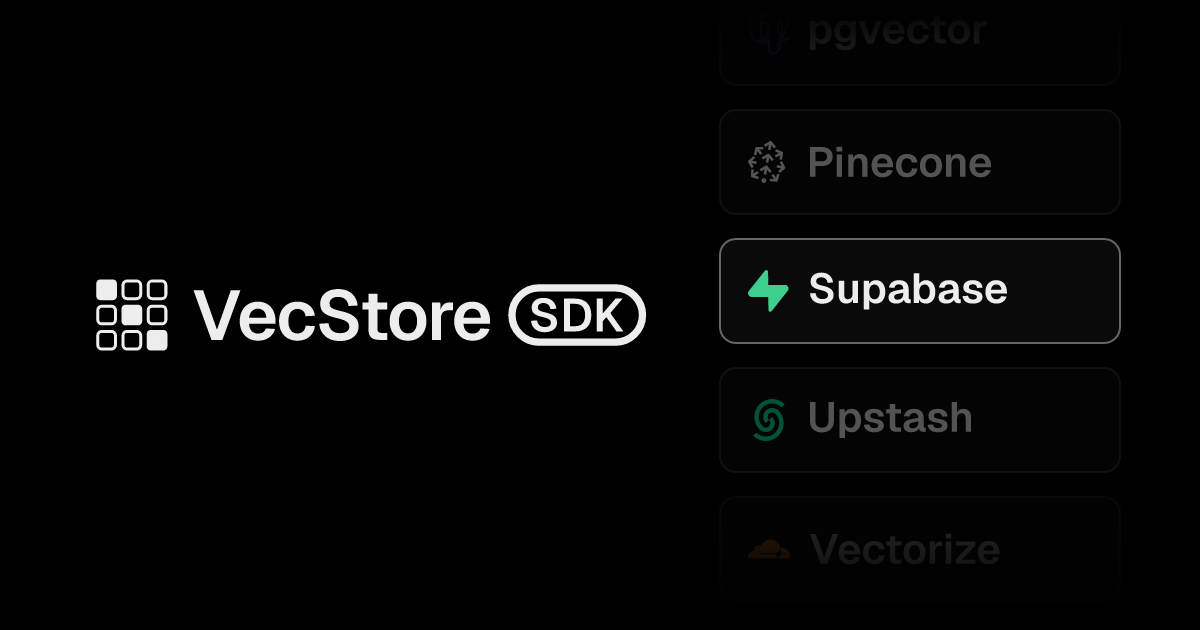
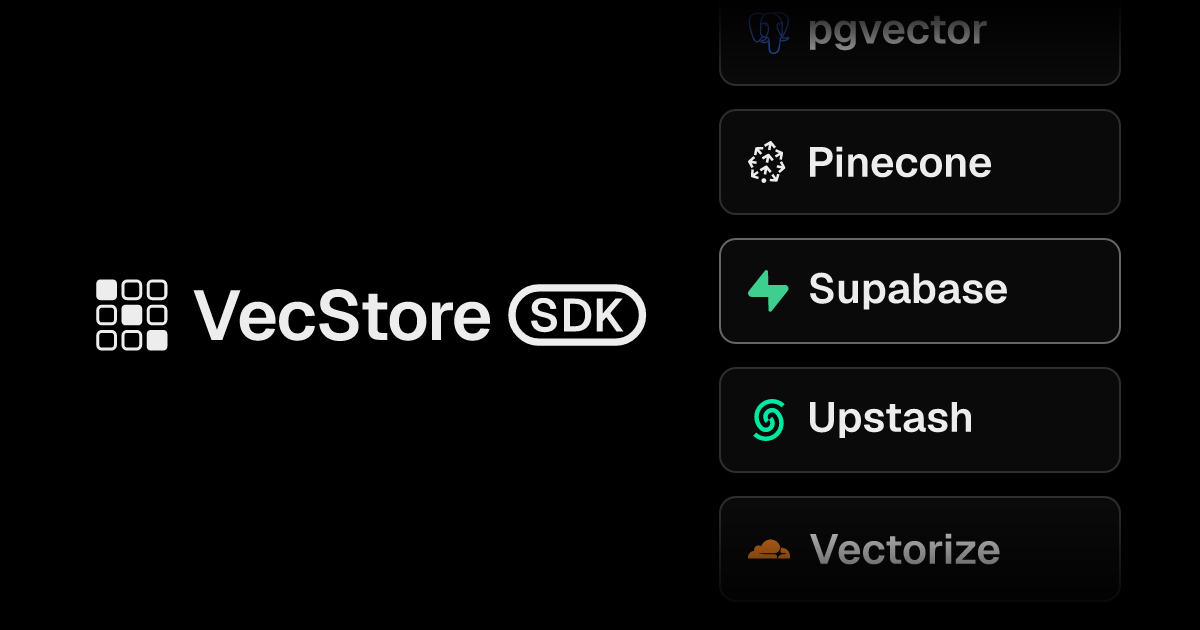
chore(assets): let the fade alone dim the provider cards
A provider background dimmed its rows by distance from the active one,
0.35 either side and 0.18 beyond that, and then the column mask dimmed
them again. The two stacked: the rows at the ends came out near black
while the pair next to the centre sat at a third of the opacity the fade
had already given them, so four of the five cards read as ghosts and the
column lost the shape it has on the default background.

Position and border carry the highlight on their own. The active row is
rotated to the middle slot, which is where the mask is fully opaque, and
it keeps the brighter #666 border the others do not have.

diff --git a/scripts/render-web-icons.ts b/scripts/render-web-icons.ts
@@ -13,8 +13,6 @@ const INK = "#ededed";
 const CARD_FILL = "#0a0a0a";
 const CARD_STROKE = "#2e2e2e";
 const CARD_STROKE_ACTIVE = "#666666";
-const CARD_DIM_NEAR = 0.35;
-const CARD_DIM_FAR = 0.18;
 const CARD_STROKE_WIDTH = 2;
 const CARD_WIDTH = 400;
 const CARD_HEIGHT = 104;
@@ -165,31 +163,15 @@ const providerBody = (row: ProviderRow, labelFont: Font): string => {
   return `<g transform="translate(${CARD_ICON_INSET} ${format(CARD_ICON_Y)})">${providerIcon(row.file, CARD_ICON, row.tint)}</g><g transform="translate(${format(CARD_LABEL_X - box.x1)} ${format(textY)})"><path d="${cubicPathData(label, PATH_PRECISION)}" fill="${INK}"/></g>`;
 };
 
-interface CardStyle {
-  readonly active: boolean;
-  readonly opacity: number;
-}
-
 const card = (
   row: ProviderRow,
   y: number,
   labelFont: Font,
-  style: CardStyle
+  active: boolean
 ): string => {
   const body = providerBody(row, labelFont);
-  const stroke = style.active ? CARD_STROKE_ACTIVE : CARD_STROKE;
-  return `<g transform="translate(0 ${format(y)})" opacity="${format(style.opacity)}"><rect width="${CARD_WIDTH}" height="${CARD_HEIGHT}" rx="${CARD_RADIUS}" fill="${CARD_FILL}" stroke="${stroke}" stroke-width="${CARD_STROKE_WIDTH}"/>${body}</g>`;
-};
-
-const cardStyle = (distance: number): CardStyle => {
-  if (distance === 0) {
-    return { active: true, opacity: 1 };
-  }
-
-  return {
-    active: false,
-    opacity: distance === 1 ? CARD_DIM_NEAR : CARD_DIM_FAR,
-  };
+  const stroke = active ? CARD_STROKE_ACTIVE : CARD_STROKE;
+  return `<g transform="translate(0 ${format(y)})"><rect width="${CARD_WIDTH}" height="${CARD_HEIGHT}" rx="${CARD_RADIUS}" fill="${CARD_FILL}" stroke="${stroke}" stroke-width="${CARD_STROKE_WIDTH}"/>${body}</g>`;
 };
 
 interface Column {
@@ -205,17 +187,9 @@ const column = (
   const height = items.length * CARD_HEIGHT + (items.length - 1) * CARD_GAP;
   const top = (OG_HEIGHT - height) / 2 - COLUMN_LIFT;
   const lastTop = top + (items.length - 1) * CARD_PITCH;
-  const activeIndex = items.findIndex((row) => row.id === activeId);
   const cards = items
     .map((row, index) =>
-      card(
-        row,
-        top + index * CARD_PITCH,
-        labelFont,
-        activeIndex === -1
-          ? { active: false, opacity: 1 }
-          : cardStyle(Math.abs(index - activeIndex))
-      )
+      card(row, top + index * CARD_PITCH, labelFont, row.id === activeId)
     )
     .join("");
   const solidFrom = (top + CARD_HEIGHT) / OG_HEIGHT;
